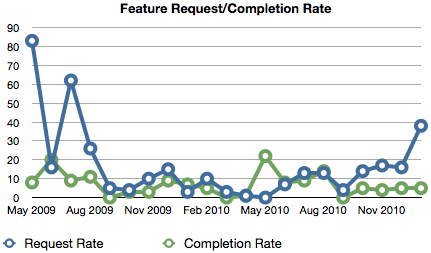
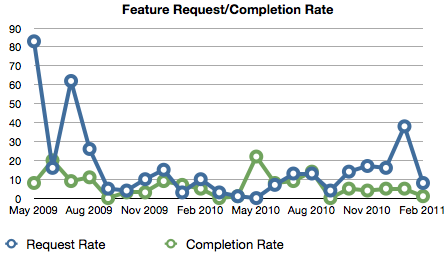
February 2011 data

diff --git a/public_html/stats/index.html b/public_html/stats/index.html
@@ -41,8 +41,8 @@
       We have no explanation for the December spike in SourceForge downloads.
       <br />
       <br />
-      January 2011 was the fifth best month for downloads, despite no release,
-      but is still falling after the 1.9.3 spike.
+      February 2011 was the third best month for downloads, despite no release.
+      Half of the upturn is attributable to the 1.9.4 beta.
       <br />
       <br />
       <br />
@@ -72,7 +72,11 @@
       notice.  More tests should result in fewer bugs, except in the areas of
       new features, which tend to be buggy at first, until the bugs are found
       and the unit tests catch up.
-      <br />
+    </p>
+    <p>
+      The 2.x development effort will generate another sharp rise in unit tests.
+    </p>
+    <p>
       <br />
       <br />
     </p>
@@ -85,9 +89,6 @@
 
       The delay between finding and fixing a bug is represented by a horizontal
       shift in the fix rate relative to the find rate.
-
-      That would indicate that we are shipping with more and more known bugs,
-      which is not good.
     </p>
     <p>
       <br />
@@ -100,9 +101,6 @@
       Feature requests are low, which is expected.  The more features we put
       into task, the harder it becomes to dream up new ones.  At some point,
       that will probably go to zero and stay there.
-    </p>
-    <p>
-      We have no explanation for the recent uptrend.
     </p>
     <p>
       <br />
@@ -143,7 +141,7 @@
       <br />
       <br />
       This is the distribution of operating systems for our site visitors.
-      It appears that the growth is mostly Linux-based.
+      This month the growth is from Mac and Windows visitors.
       <br />
       <br />
       We are beginning to see Maemo, Symbian and Android visitors.
